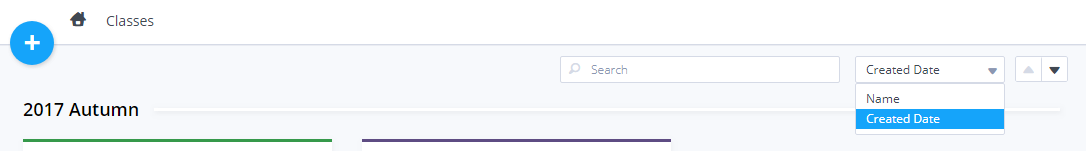
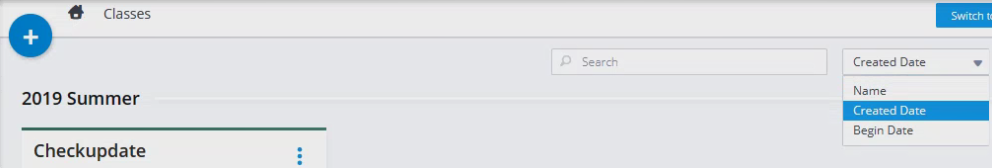
changelog #10678 #10646 #10459 #10721

diff --git a/source/docs/misc/changelog.html.md b/source/docs/misc/changelog.html.md
@@ -11,6 +11,16 @@ We do not report small bug fixes or issues that affect individual users, who we 
 `[I]` = Update or improvement
 `[F]` = New feature
 
+**November 2019**
+
+- `[I] [06th]`: Update messaging when unable to publish jupyter based units
+- `[I] [05th]`: Update handling of users signing up through LMS
+
+**October 2019**
+
+- `[F] [16th]`: Add function to allow [Classes](/docs/classes/classmanagement/searchclass/) to be sorted by begin date of class
+- `[I] [02nd]`: Fix problem with AOB allocation for self pay organisations
+
 **September 2019**
 
 - `[I] [27th]`: Improve handling of autograde scripts for large units

diff --git a/source/docs/classes/classmanagement/searchclass.html.md b/source/docs/classes/classmanagement/searchclass.html.md
@@ -16,7 +16,7 @@ The grouping intervals are
 
 ### Ordering classes within their groups
 
-Classes can be ordered by Name or Creation Date within the groups
+Classes can be ordered by Name, Creation Date or Begin Date within the groups
 
 <img alt="CreateDate" src="/img/docs/manage_classes/orderclass.png" class="simple"/>
 
